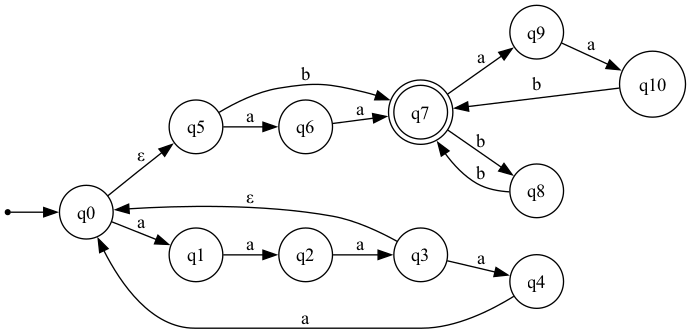
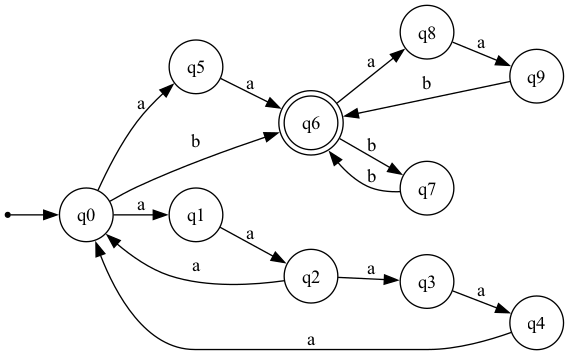
Overall fix

diff --git a/lab2/README.md b/lab2/README.md
@@ -60,7 +60,7 @@
 
 ## Расширенная регулярка
 ```
-^(?=[ab]*$)(?:aaa(?:aa)?)*(?:aa|b)(?:(?:bb|aab)+)?$
+^(?=[ab]*$)(?:a{3}|a{5}|a{6}|a{8,})?(?:aa|b)(?:(?:bb|aab)+)?$
 ```
 
 ---
